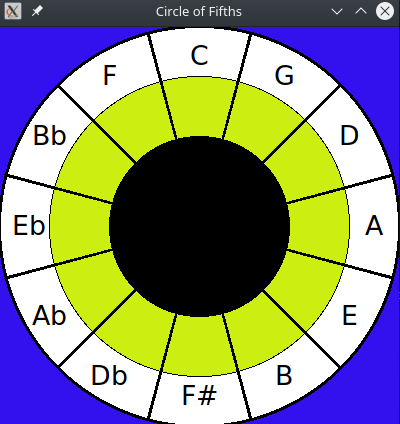
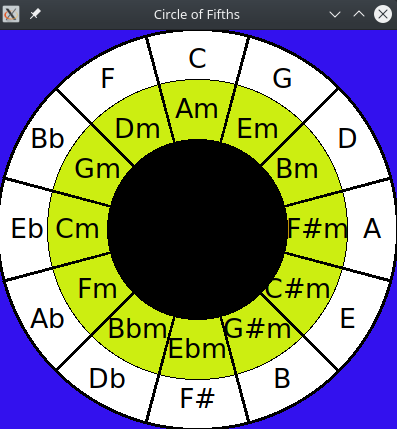
Add minor relative to circle of fifths

diff --git a/TABL.py b/TABL.py
@@ -546,8 +546,21 @@ def plot_circle_fifths():
     circle.create_text(w*0.125, h*0.275, text = "Bb", font = ("bold", 20), fill="black")
     circle.create_text(w*0.275, h*0.125, text = "F", font = ("bold", 20), fill="black")
     
-    
     create_circle(w/2, h/2, 150, circle, fill = layer1["bg"])
+    
+    circle.create_text(w*0.5, h*0.2, text = "Am", font = ("bold", 20), fill="black")
+    circle.create_text(w*0.65, h*0.25, text = "Em", font = ("bold", 20), fill="black")
+    circle.create_text(w*0.75, h*0.35, text = "Bm", font = ("bold", 20), fill="black")
+    circle.create_text(w*0.8, h*0.5, text = "F#m", font = ("bold", 20), fill="black")
+    circle.create_text(w*0.75, h*0.65, text = "C#m", font = ("bold", 20), fill="black")
+    circle.create_text(w*0.65, h*0.75, text = "G#m", font = ("bold", 20), fill="black")
+    circle.create_text(w*0.5, h*0.8, text = "Ebm", font = ("bold", 20), fill="black")
+    circle.create_text(w*0.35, h*0.75, text = "Bbm", font = ("bold", 20), fill="black")
+    circle.create_text(w*0.25, h*0.65, text = "Fm", font = ("bold", 20), fill="black")
+    circle.create_text(w*0.2, h*0.5, text = "Cm", font = ("bold", 20), fill="black")
+    circle.create_text(w*0.25, h*0.35, text = "Gm", font = ("bold", 20), fill="black")
+    circle.create_text(w*0.35, h*0.25, text = "Dm", font = ("bold", 20), fill="black")
+    
     for i in range(0,12):
         circle.create_arc(0, 0, w, h, start=90-(360/12)/2-i*(360/12), extent=(360/12), width = 3, outline="black")
     create_circle(w/2, h/2, 90, circle, fill = "black")
